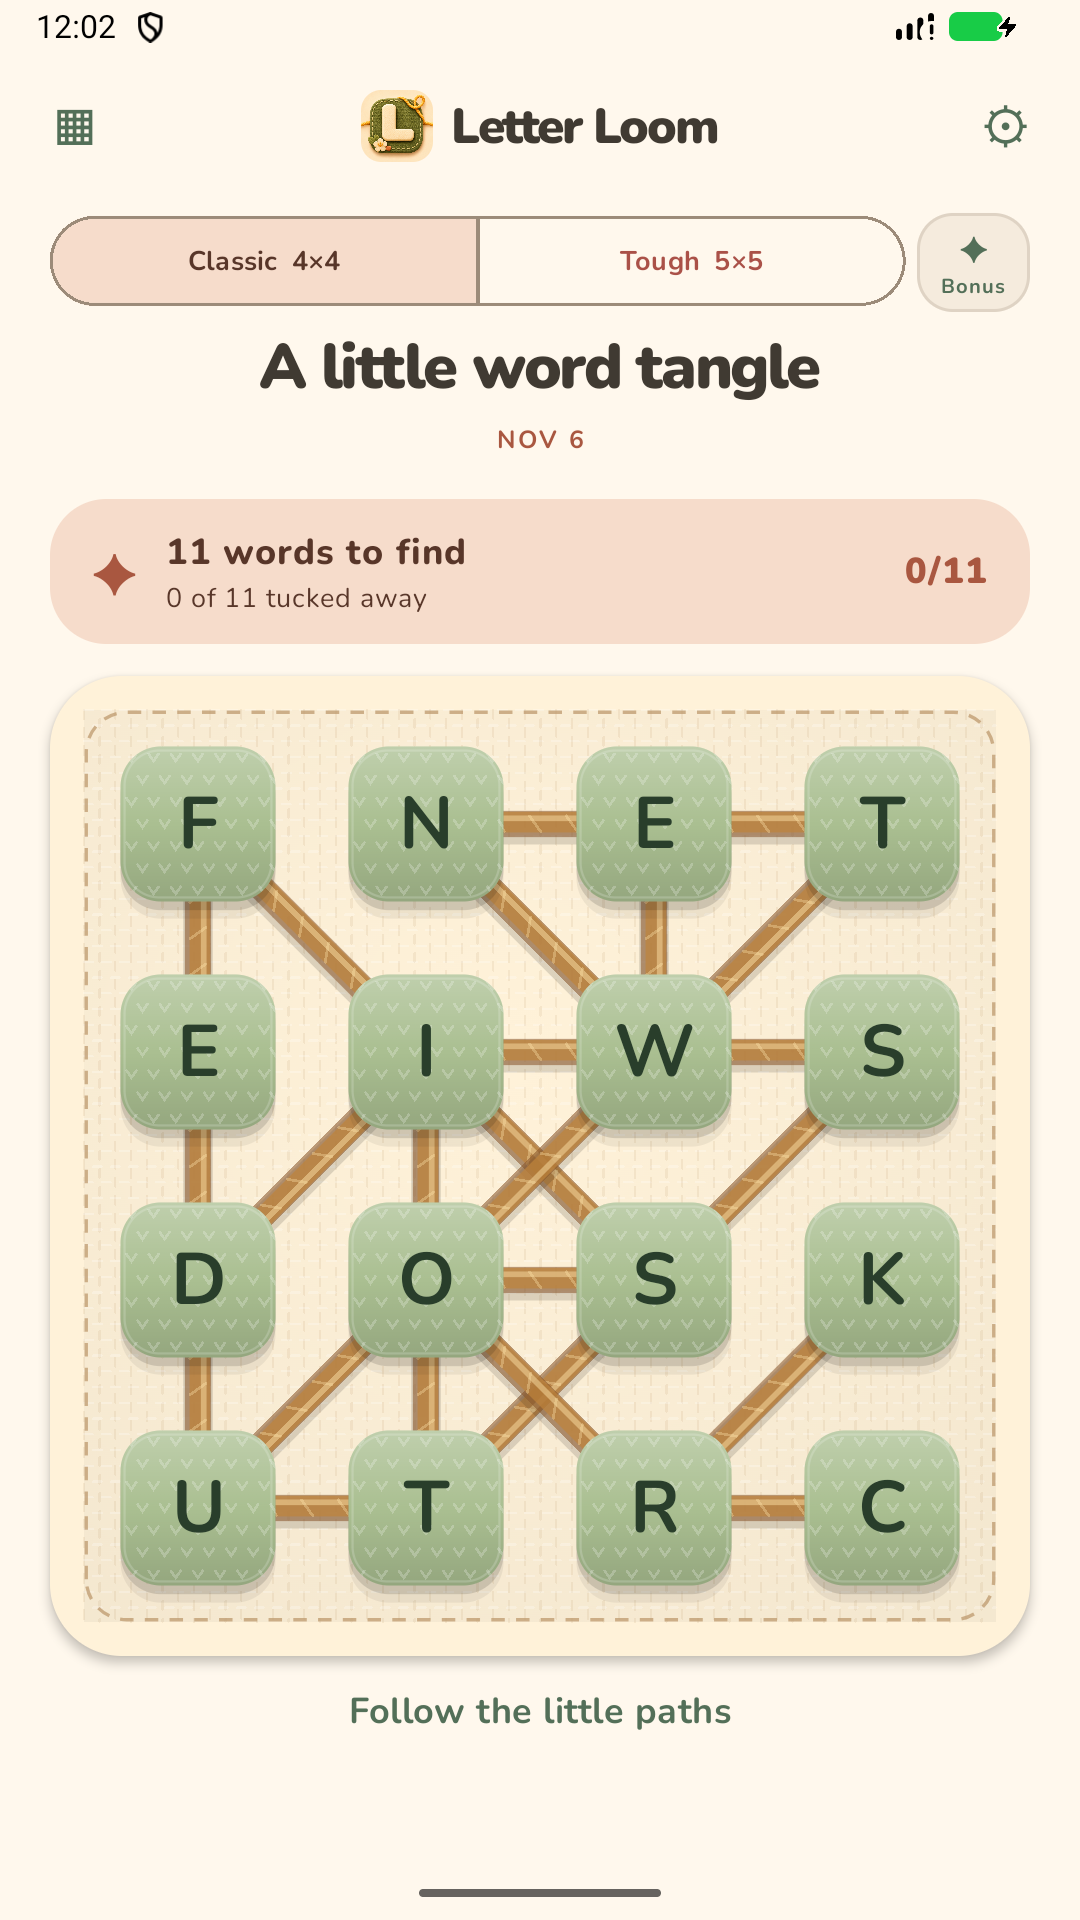
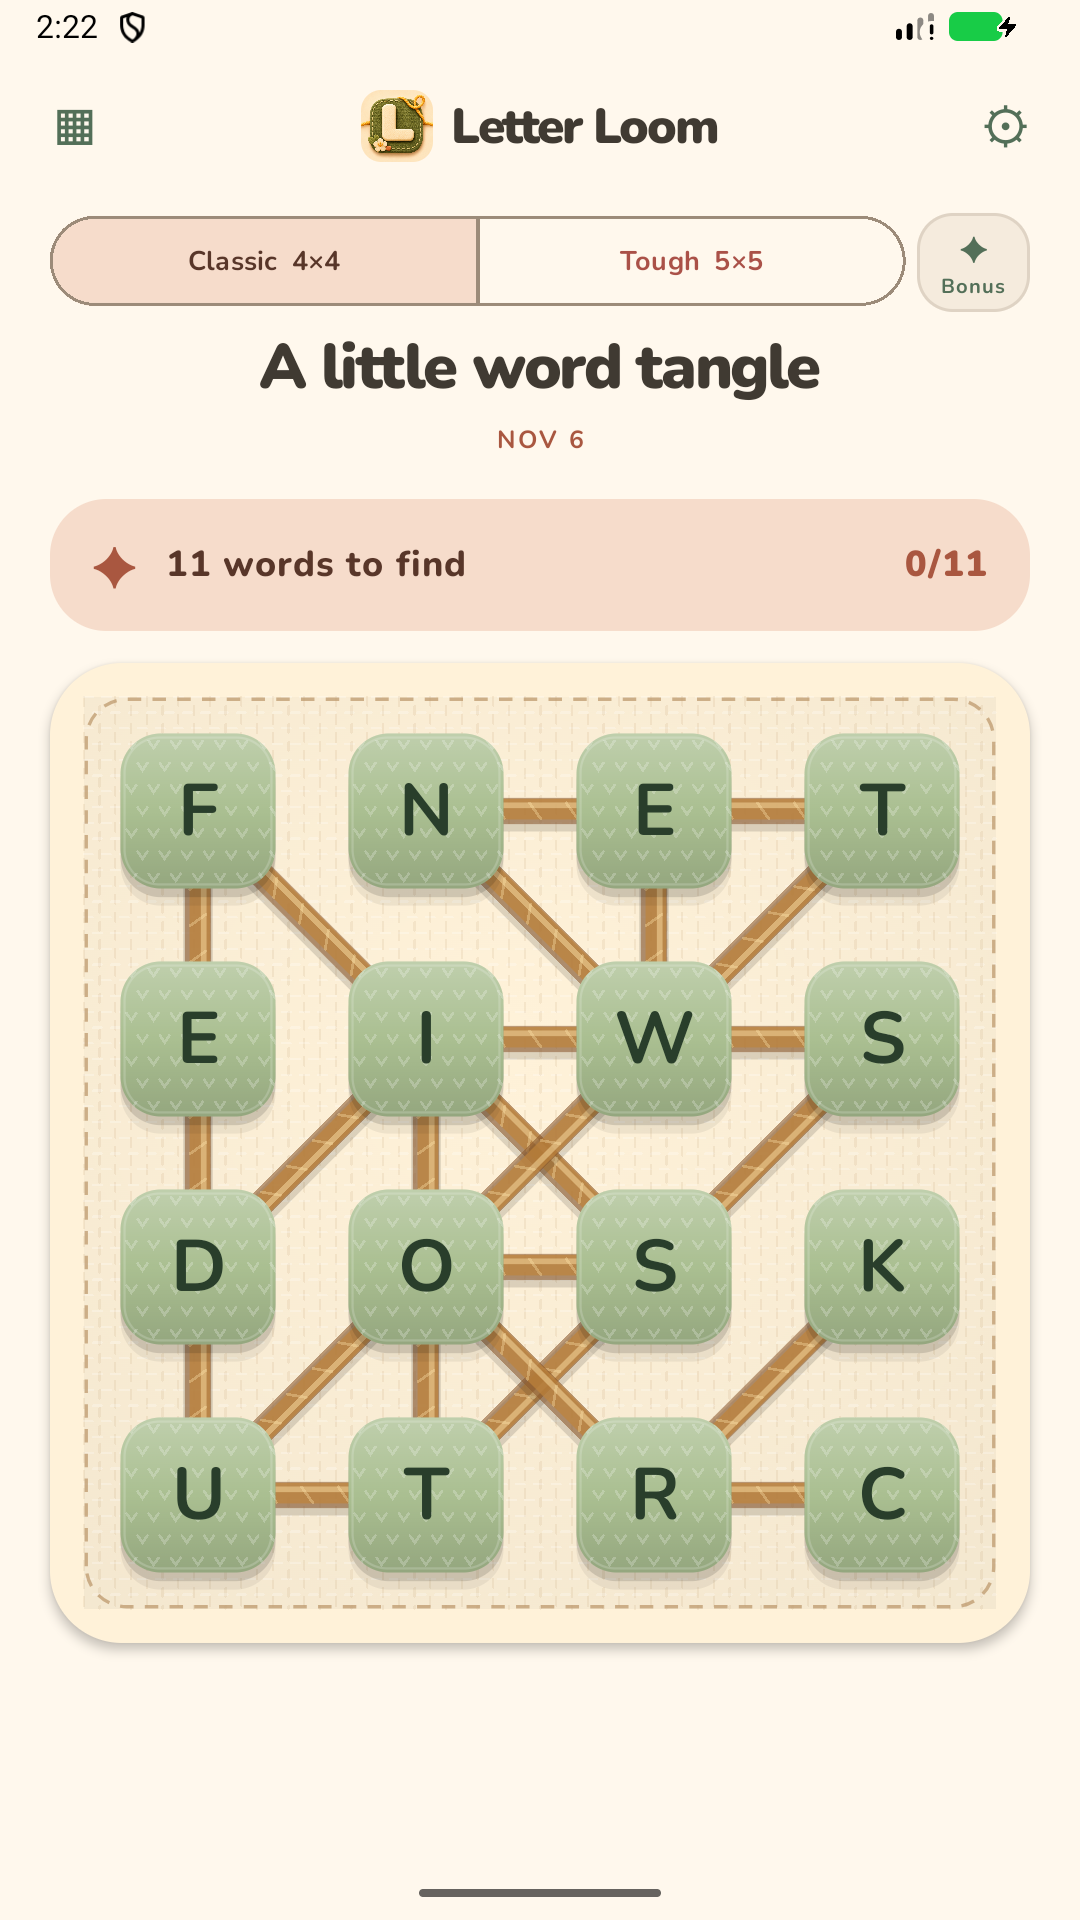
Refresh puzzle screenshots

diff --git a/index.html b/index.html
@@ -1,9 +1,9 @@
 <!doctype html>
 <html lang="en"><head><meta charset="utf-8"><meta name="viewport" content="width=device-width,initial-scale=1"><meta name="description" content="Letter Loom is a cozy daily word puzzle for Android. Find words, untangle the board, and make a little space for play."><meta name="theme-color" content="#f9f5e9"><link rel="canonical" href="https://letterloom.datatra.sh/"><link rel="icon" href="/assets/icon.png?v=3"><link rel="stylesheet" href="/style.css"><title>Letter Loom — a little word tangle</title></head>
 <body><header class="wrap header"><a class="brand" href="/" aria-label="Letter Loom home"><img src="/assets/icon.png?v=3" alt="" width="48" height="48"><span>Letter Loom<span class="brand-dot">.</span></span></a><nav aria-label="Main navigation"><a href="#how">How to play</a><a href="#features">The little details</a></nav></header>
-<main><section class="hero wrap"><div class="hero-copy"><div class="eyebrow"><span class="dot"></span> A LITTLE DAILY WORD GAME</div><h1>Find a little<br><em>space</em> to play.</h1><p>A handful of letters, a moment for yourself. Follow the words and watch the tangle come undone.</p><div class="hero-actions"><span class="pill">Coming to Android <span aria-hidden="true">✦</span></span><a class="text-link" href="#how">See how it works <span aria-hidden="true">↘</span></a></div></div><div class="hero-art"><div class="art-blob"></div><div class="orbit orbit-one">✦</div><div class="orbit orbit-two">✳</div><div class="phone"><img src="/assets/classic.png?v=2" alt="Letter Loom's Classic word puzzle on an Android screen" width="1080" height="1920"></div><div class="art-label"><span class="label-icon">✿</span><div><strong>Made for little breaks</strong><small>Take your time, find your flow.</small></div></div></div></section>
+<main><section class="hero wrap"><div class="hero-copy"><div class="eyebrow"><span class="dot"></span> A LITTLE DAILY WORD GAME</div><h1>Find a little<br><em>space</em> to play.</h1><p>A handful of letters, a moment for yourself. Follow the words and watch the tangle come undone.</p><div class="hero-actions"><span class="pill">Coming to Android <span aria-hidden="true">✦</span></span><a class="text-link" href="#how">See how it works <span aria-hidden="true">↘</span></a></div></div><div class="hero-art"><div class="art-blob"></div><div class="orbit orbit-one">✦</div><div class="orbit orbit-two">✳</div><div class="phone"><img src="/assets/classic.png?v=3" alt="Letter Loom's Classic word puzzle on an Android screen" width="1080" height="1920"></div><div class="art-label"><span class="label-icon">✿</span><div><strong>Made for little breaks</strong><small>Take your time, find your flow.</small></div></div></div></section>
 <section class="ribbon" aria-label="Game highlights"><div><span class="ribbon-item">FIND THE WORDS</span><span class="ribbon-separator" aria-hidden="true">✦</span><span class="ribbon-item">UNTANGLE THE BOARD</span><span class="ribbon-separator" aria-hidden="true">✦</span><span class="ribbon-item">COME BACK TOMORROW</span></div></section>
 <section class="how wrap" id="how"><div class="section-intro"><div class="eyebrow">A LITTLE RITUAL</div><h2>One word at a time<span class="accent">.</span></h2><p>No rush. Just you, a little grid, and the lovely feeling of things falling into place.</p></div><div class="steps"><article><span class="step-num">01 / LOOK</span><div class="step-icon">Aa</div><h3>Spot a word</h3><p>Look closely at the jumble. Words can twist and turn through neighboring letters.</p></article><article><span class="step-num">02 / TRACE</span><div class="step-icon">↝</div><h3>Follow the letters</h3><p>Swipe a path through the tiles or tap letters one by one. Find a hidden extra along the way.</p></article><article><span class="step-num">03 / UNWIND</span><div class="step-icon">✳</div><h3>Untangle it all</h3><p>Find every goal word and clear the board. There’s a fresh tangle waiting tomorrow.</p></article></div></section>
-<section class="modes" id="features"><div class="wrap modes-inner"><div class="mode-art"><div class="mode-ring"></div><div class="phone phone-dark"><img src="/assets/tough.png?v=2" alt="Letter Loom's Tough word puzzle on an Android screen" width="1080" height="1920" loading="lazy"></div><span class="mode-spark">✧</span></div><div class="mode-copy"><div class="eyebrow">A PUZZLE FOR YOUR PACE</div><h2>Cozy, with a<br><em>clever streak.</em></h2><p>Settle into a <span class="board-size">4 × 4</span> Classic puzzle or take on a bigger <span class="board-size">5 × 5</span> Tough board.</p><div class="feature-list"><div><span>✦</span><p><strong>Two daily tangles</strong><br>Classic and Tough, each with a new board every day.</p></div><div><span>☾</span><p><strong>Your kind of cozy</strong><br>Light, dark, or whatever your device prefers.</p></div><div><span>✿</span><p><strong>A little something extra</strong><br>Optional bonus puzzles unlock by watching an ad.</p></div></div></div></div></section>
+<section class="modes" id="features"><div class="wrap modes-inner"><div class="mode-art"><div class="mode-ring"></div><div class="phone phone-dark"><img src="/assets/tough.png?v=3" alt="Letter Loom's Tough word puzzle on an Android screen" width="1080" height="1920" loading="lazy"></div><span class="mode-spark">✧</span></div><div class="mode-copy"><div class="eyebrow">A PUZZLE FOR YOUR PACE</div><h2>Cozy, with a<br><em>clever streak.</em></h2><p>Settle into a <span class="board-size">4 × 4</span> Classic puzzle or take on a bigger <span class="board-size">5 × 5</span> Tough board.</p><div class="feature-list"><div><span>✦</span><p><strong>Two daily tangles</strong><br>Classic and Tough, each with a new board every day.</p></div><div><span>☾</span><p><strong>Your kind of cozy</strong><br>Light, dark, or whatever your device prefers.</p></div><div><span>✿</span><p><strong>A little something extra</strong><br>Optional bonus puzzles unlock by watching an ad.</p></div></div></div></div></section>
 <section class="last wrap"><div class="last-icon">✿</div><div><div class="eyebrow">UNTIL TOMORROW</div><h2>Make a little room<br>for <em>wordplay.</em></h2><p>Letter Loom is coming to Android.</p></div><a class="contact-button" href="mailto:support@datatra.sh">Get in touch <span aria-hidden="true">↗</span></a></section></main>
 <footer><div class="wrap footer"><a class="brand" href="/"><img src="/assets/icon.png?v=3" alt="" width="42" height="42"><span>Letter Loom<span class="brand-dot">.</span></span></a><p>A little word tangle by datatrash.</p><div><a href="/privacy/">Privacy policy</a><a href="mailto:support@datatra.sh">Contact</a></div></div></footer><script src="/i18n.js" defer></script></body></html>
